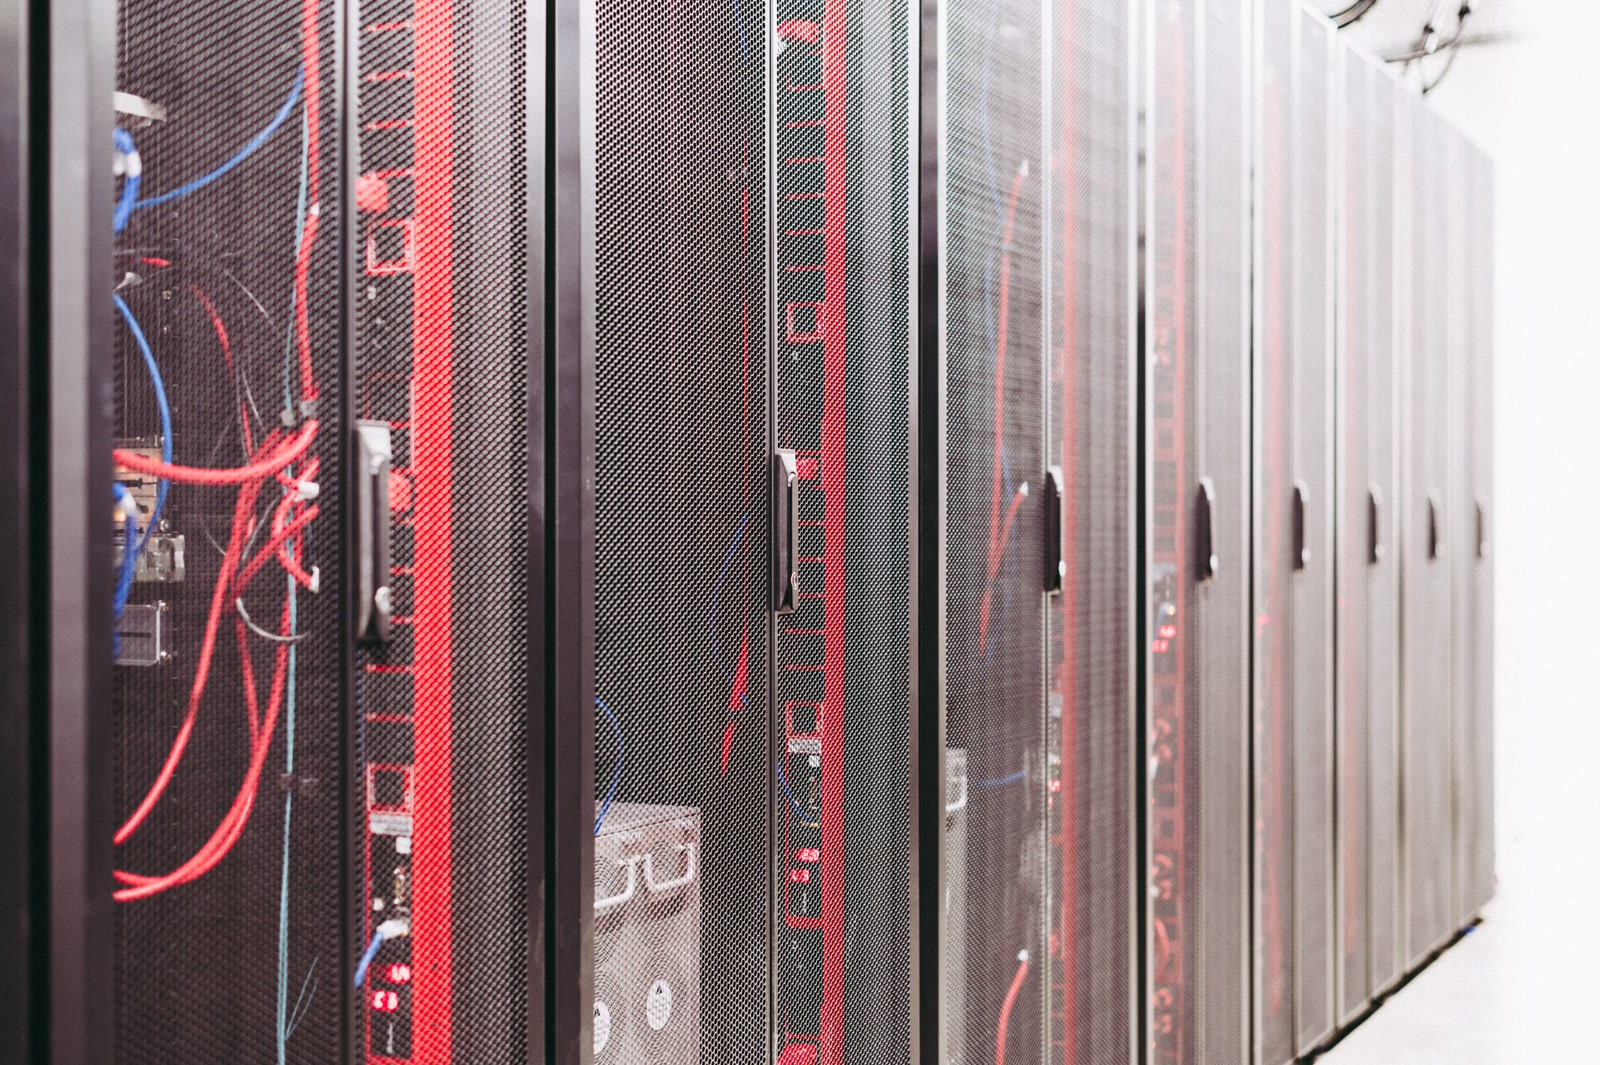
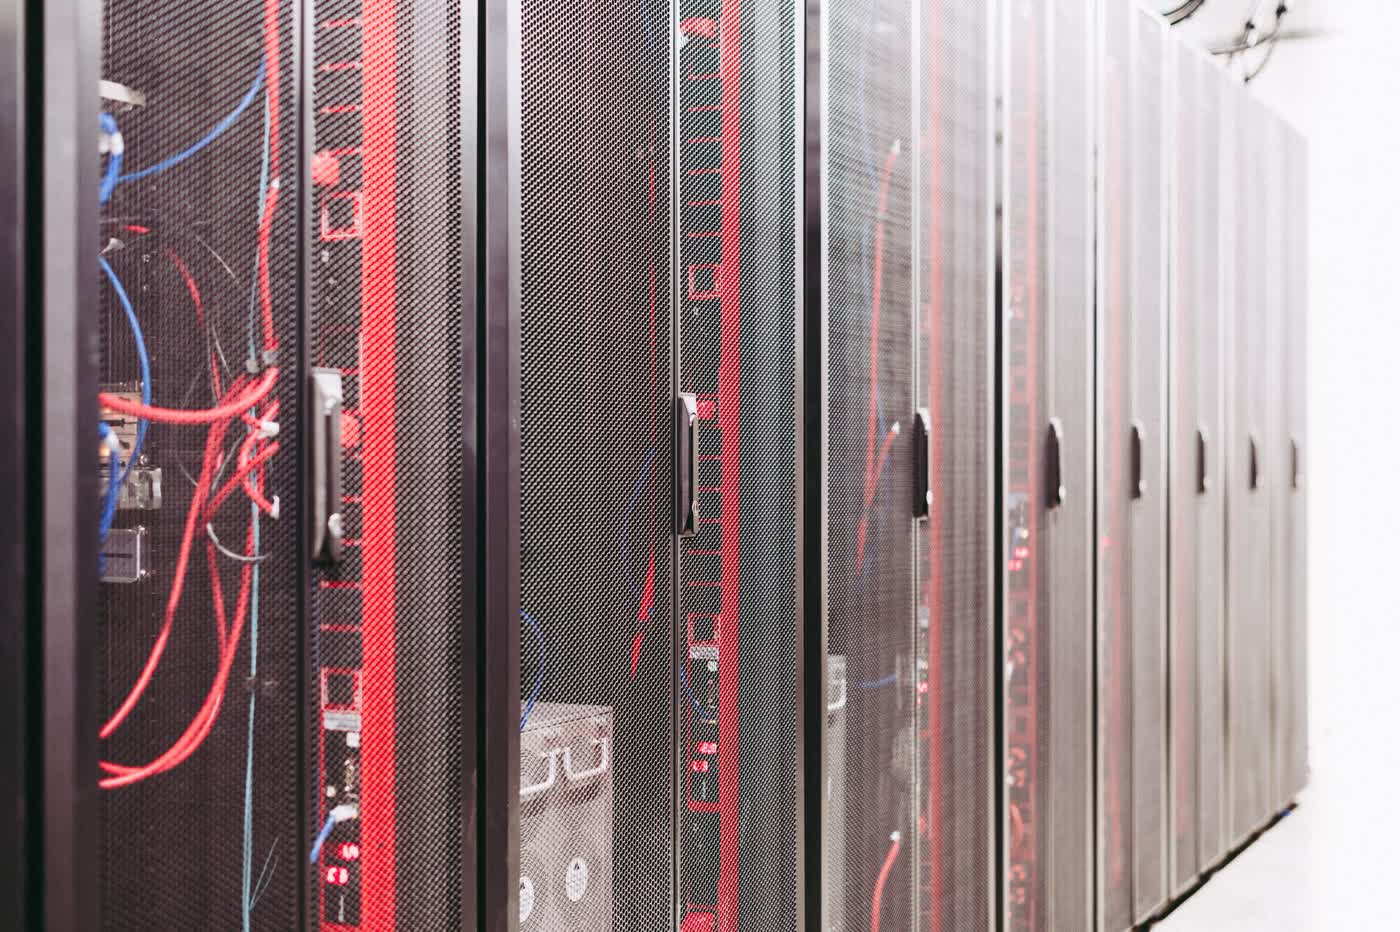
Serve CMS photos via next/image q70; darken products hero glass
Route heroes and card photos through EnterpriseMediaImage (AVIF/WebP
quality 70, sizes, hero-only priority). Recompress public/images sources,
enable formats/qualities/deviceSizes in next.config, and darken
PremiumPageHero highlight glass so grey-300 copy meets WCAG AA over
bright laptop heroes.

Changed region(s): [[0.3686, 0.0, 0.5529, 1.0]]

diff --git a/components/HomeV3Sections.tsx b/components/HomeV3Sections.tsx
@@ -1,6 +1,13 @@
 import Link from "next/link";
 import { CTABand } from "@/components/CTABand";
-import { EnterprisePhotoPanel, PremiumStatementBand, enterpriseImages } from "@/components/EnterpriseImagery";
+import {
+  EnterpriseMediaImage,
+  EnterprisePhotoPanel,
+  PremiumStatementBand,
+  enterpriseCardSizes,
+  enterpriseImages,
+  enterpriseThumbSizes,
+} from "@/components/EnterpriseImagery";
 import { SectionHeading } from "@/components/SectionHeading";
 import { AnimatedCard, AnimatedSection, StaggerContainer } from "@/components/motion";
 import { categories } from "@/data/products";
@@ -103,15 +110,21 @@ export function SolutionsV3() {
           {solutions.slice(0, 6).map((solution, index) => (
             <Link key={solution.slug} href={`/solutions/${solution.slug}`} className={`group block ${index > 2 ? "hidden md:block" : ""}`}>
               <AnimatedCard className="surface lift h-full overflow-hidden rounded">
-                <div
-                  className="relative h-28 border-b border-slate-200 bg-slate-950 p-4 sm:h-40 sm:p-5"
-                  style={{
-                    backgroundImage: `linear-gradient(180deg, rgba(7, 20, 38, 0.04), rgba(7, 20, 38, 0.76)), url(${enterpriseImages[solutionImages[solution.slug] || "network"]})`,
-                    backgroundPosition: "center",
-                    backgroundSize: "cover",
-                  }}
-                >
-                  <div className="grid h-12 w-12 place-items-center rounded bg-white/90 text-xs font-bold text-[#0A0A0A] shadow-lg shadow-slate-950/20">{solution.icon}</div>
+                <div className="relative h-28 overflow-hidden border-b border-slate-200 bg-slate-950 p-4 sm:h-40 sm:p-5">
+                  <EnterpriseMediaImage
+                    image={solutionImages[solution.slug] || "network"}
+                    sizes={enterpriseCardSizes}
+                  />
+                  <div
+                    className="absolute inset-0"
+                    style={{
+                      backgroundImage:
+                        "linear-gradient(180deg, rgba(7, 20, 38, 0.04), rgba(7, 20, 38, 0.76))",
+                    }}
+                  />
+                  <div className="relative grid h-12 w-12 place-items-center rounded bg-white/90 text-xs font-bold text-[#0A0A0A] shadow-lg shadow-slate-950/20">
+                    {solution.icon}
+                  </div>
                 </div>
                 <div className="p-4 sm:p-6">
                   <div className="text-lg font-bold text-slate-950 group-hover:text-[#2563EB] sm:text-xl">{solution.title}</div>
@@ -147,14 +160,19 @@ export function ProductCatalogV3() {
             <Link key={category.slug} href={`/products/${category.slug}`} className={`group block ${index > 3 ? "hidden sm:block" : ""}`}>
               <AnimatedCard className="h-full rounded-lg border border-slate-200 bg-slate-50 p-4 shadow-sm transition hover:-translate-y-1 hover:bg-white hover:shadow-xl hover:shadow-slate-950/10">
                 <div className="flex gap-3">
-                  <div
-                    className="h-14 w-16 shrink-0 rounded bg-slate-950"
-                    style={{
-                      backgroundImage: `linear-gradient(180deg, rgba(7, 20, 38, 0.06), rgba(7, 20, 38, 0.7)), url(${enterpriseImages[categoryImages[category.slug] || "dataCenter"]})`,
-                      backgroundPosition: "center",
-                      backgroundSize: "cover",
-                    }}
-                  />
+                  <div className="relative h-14 w-16 shrink-0 overflow-hidden rounded bg-slate-950">
+                    <EnterpriseMediaImage
+                      image={categoryImages[category.slug] || "dataCenter"}
+                      sizes={enterpriseThumbSizes}
+                    />
+                    <div
+                      className="absolute inset-0"
+                      style={{
+                        backgroundImage:
+                          "linear-gradient(180deg, rgba(7, 20, 38, 0.06), rgba(7, 20, 38, 0.7))",
+                      }}
+                    />
+                  </div>
                   <div className="min-w-0">
                     <div className="text-xs font-bold uppercase tracking-[0.14em] text-[#2563EB]">Technology</div>
                     <h3 className="mt-1 text-base font-bold tracking-tight text-slate-950 group-hover:text-[#2563EB]">{category.name}</h3>

diff --git a/components/PremiumPageHero.tsx b/components/PremiumPageHero.tsx
@@ -1,5 +1,9 @@
 import Link from "next/link";
-import { enterpriseImages } from "@/components/EnterpriseImagery";
+import {
+  EnterpriseMediaImage,
+  enterpriseHeroSizes,
+  enterpriseImages,
+} from "@/components/EnterpriseImagery";
 import { FadeIn, SlideUp, StaggerContainer } from "@/components/motion";
 
 type HeroAction = {
@@ -31,14 +35,16 @@ export function PremiumPageHero({
 }) {
   return (
     <section className="relative overflow-hidden bg-[#0A0A0A] text-white">
-      <div
-        className="cinematic-photo absolute inset-0 opacity-[0.82]"
-        style={{
-          backgroundImage: `linear-gradient(105deg, rgba(5, 16, 28, 0.98), rgba(8, 45, 62, 0.74) 50%, rgba(132, 91, 44, 0.2)), url(${enterpriseImages[image]})`,
-          backgroundPosition: "center",
-          backgroundSize: "cover",
-        }}
-      />
+      <div className="cinematic-photo absolute inset-0 opacity-[0.82]">
+        <EnterpriseMediaImage image={image} priority sizes={enterpriseHeroSizes} />
+        <div
+          className="absolute inset-0"
+          style={{
+            backgroundImage:
+              "linear-gradient(105deg, rgba(5, 16, 28, 0.98), rgba(8, 45, 62, 0.74) 50%, rgba(132, 91, 44, 0.2))",
+          }}
+        />
+      </div>
       <div className="cinematic-aurora pointer-events-none absolute inset-0" />
       <div className="cinematic-lines pointer-events-none absolute inset-0 opacity-25" />
       <div className="cinematic-sweep pointer-events-none absolute inset-y-0 left-0 w-[72%] opacity-0" />
@@ -75,13 +81,14 @@ export function PremiumPageHero({
         </div>
 
         <SlideUp delay={220} className="hidden h-full md:block">
-          <div className="relative overflow-hidden rounded-lg border border-white/15 bg-white/[0.08] p-3 shadow-2xl shadow-black/20 backdrop-blur-xl sm:p-4">
-            <div className="absolute inset-0 bg-gradient-to-br from-white/12 via-transparent to-blue-500/10" />
+          {/* Darker glass so grey-300 body copy stays AA over bright hero photos (e.g. products laptop). */}
+          <div className="relative overflow-hidden rounded-lg border border-white/15 bg-[#05101C]/90 p-3 shadow-2xl shadow-black/40 backdrop-blur-xl sm:p-4">
+            <div className="absolute inset-0 bg-gradient-to-br from-white/6 via-[#05101C]/35 to-black/50" />
             <StaggerContainer className="relative grid gap-2 sm:grid-cols-2 sm:gap-3">
               {highlights.map((item, index) => (
                 <div
                   key={item.label}
-                  className={`rounded-lg border border-white/12 bg-white/10 p-3 backdrop-blur transition-transform duration-200 hover:-translate-y-1 ${index > 1 ? "hidden sm:block" : ""}`}
+                  className={`rounded-lg border border-white/12 bg-black/65 p-3 backdrop-blur-md transition-transform duration-200 hover:-translate-y-1 ${index > 1 ? "hidden sm:block" : ""}`}
                 >
                   <div className="text-xs font-bold text-blue-200">{String(index + 1).padStart(2, "0")}</div>
                   <div className="mt-2 text-sm font-bold text-white">{item.label}</div>

diff --git a/components/EnterpriseImagery.tsx b/components/EnterpriseImagery.tsx
@@ -1,7 +1,48 @@
+import Image from "next/image";
 import Link from "next/link";
-import { getCmsMediaSourceMap } from "@/lib/cms/media";
+import { getCmsMediaRecord, getCmsMediaSourceMap, type CmsMediaKey } from "@/lib/cms/media";
 
 export const enterpriseImages = getCmsMediaSourceMap();
+
+export const enterpriseMediaQuality = 70;
+
+/** Full-bleed page heroes (only these should pass priority). Cap desktop src near source width. */
+export const enterpriseHeroSizes = "(max-width: 768px) 100vw, 1600px";
+
+/** Large photo panels beside copy (~half viewport on desktop). */
+export const enterprisePanelSizes = "(max-width: 1024px) 100vw, 50vw";
+
+/** Card / tile photo bands in grids. */
+export const enterpriseCardSizes = "(max-width: 768px) 100vw, (max-width: 1024px) 50vw, 33vw";
+
+/** Small thumbnails beside list copy. */
+export const enterpriseThumbSizes = "(max-width: 640px) 80px, 96px";
+
+export function EnterpriseMediaImage({
+  image,
+  priority = false,
+  sizes,
+  className = "",
+}: {
+  image: CmsMediaKey | keyof typeof enterpriseImages;
+  priority?: boolean;
+  sizes: string;
+  className?: string;
+}) {
+  const record = getCmsMediaRecord(image as CmsMediaKey);
+
+  return (
+    <Image
+      src={record.source}
+      alt={record.alt}
+      fill
+      priority={priority}
+      quality={enterpriseMediaQuality}
+      sizes={sizes}
+      className={`object-cover ${className}`}
+    />
+  );
+}
 
 export function EnterprisePhotoPanel({
   image,
@@ -20,14 +61,15 @@ export function EnterprisePhotoPanel({
     <div
       className={`relative min-h-[220px] overflow-hidden rounded-lg bg-slate-950 shadow-2xl shadow-slate-950/18 sm:min-h-[270px] ${className}`}
     >
-      <div
-        className="cinematic-photo absolute inset-0"
-      style={{
-        backgroundImage: `linear-gradient(180deg, rgba(7, 20, 38, 0.08), rgba(7, 20, 38, 0.74)), url(${enterpriseImages[image]})`,
-        backgroundPosition: "center",
-        backgroundSize: "cover",
-      }}
-      />
+      <div className="cinematic-photo absolute inset-0">
+        <EnterpriseMediaImage image={image} sizes={enterprisePanelSizes} />
+        <div
+          className="absolute inset-0"
+          style={{
+            backgroundImage: "linear-gradient(180deg, rgba(7, 20, 38, 0.08), rgba(7, 20, 38, 0.74))",
+          }}
+        />
+      </div>
       <div className="absolute inset-0 bg-[linear-gradient(90deg,rgba(7,20,38,0.72),transparent_54%)]" />
       <div className="cinematic-lines pointer-events-none absolute inset-0 opacity-25" />
       <div className="relative flex min-h-[220px] flex-col justify-end p-4 text-white sm:min-h-[270px] sm:p-5">

diff --git a/app/products/page.tsx b/app/products/page.tsx
@@ -1,7 +1,11 @@
 import Link from "next/link";
 import type { Metadata } from "next";
 import { AnimatedContent, BorderGlow, SpotlightCard } from "@/app/components/reactbits";
-import { enterpriseImages } from "@/components/EnterpriseImagery";
+import {
+  EnterpriseMediaImage,
+  enterpriseCardSizes,
+  enterpriseImages,
+} from "@/components/EnterpriseImagery";
 import { PremiumPageHero } from "@/components/PremiumPageHero";
 import { ProductGrid } from "@/components/ProductGrid";
 import { RequirementBuilder } from "@/components/RequirementBuilder";
@@ -100,14 +104,18 @@ export default async function ProductsPage() {
               <AnimatedContent key={category.slug} delay={Math.min(index * 45, 320)}>
                 <Link href={`/products/${category.slug}`} className="group block h-full">
                   <SpotlightCard className="h-full overflow-hidden rounded-lg border border-slate-200 bg-white shadow-sm transition group-hover:-translate-y-1 group-hover:shadow-xl group-hover:shadow-slate-950/10">
-                    <div
-                      className="relative min-h-[118px] sm:min-h-[190px]"
-                      style={{
-                        backgroundImage: `linear-gradient(180deg, rgba(7, 20, 38, 0.03), rgba(7, 20, 38, 0.78)), url(${enterpriseImages[categoryImages[category.slug] || "dataCenter"]})`,
-                        backgroundPosition: "center",
-                        backgroundSize: "cover",
-                      }}
-                    >
+                    <div className="relative min-h-[118px] overflow-hidden sm:min-h-[190px]">
+                      <EnterpriseMediaImage
+                        image={categoryImages[category.slug] || "dataCenter"}
+                        sizes={enterpriseCardSizes}
+                      />
+                      <div
+                        className="absolute inset-0"
+                        style={{
+                          backgroundImage:
+                            "linear-gradient(180deg, rgba(7, 20, 38, 0.03), rgba(7, 20, 38, 0.78))",
+                        }}
+                      />
                       <div className="absolute bottom-4 left-4 rounded border border-white/16 bg-white/12 px-3 py-2 text-xs font-bold uppercase tracking-[0.14em] text-white backdrop-blur">
                         Supported Area
                       </div>

diff --git a/app/solutions/page.tsx b/app/solutions/page.tsx
@@ -5,7 +5,11 @@ import {
   GradientBackground,
   SpotlightCard,
 } from "@/app/components/reactbits";
-import { enterpriseImages } from "@/components/EnterpriseImagery";
+import {
+  EnterpriseMediaImage,
+  enterpriseImages,
+  enterpriseThumbSizes,
+} from "@/components/EnterpriseImagery";
 import { PremiumPageHero } from "@/components/PremiumPageHero";
 import { solutions } from "@/data/solutions";
 import { getSolutionsContent } from "@/lib/cms/content";
@@ -81,14 +85,19 @@ export default function SolutionsPage() {
                 <Link href={`/solutions/${solution.slug}`} className="group block h-full">
                   <SpotlightCard className="h-full rounded-lg border border-slate-200 bg-white p-4 shadow-sm transition group-hover:-translate-y-1 group-hover:shadow-xl group-hover:shadow-slate-950/10">
                     <div className="flex gap-3">
-                      <div
-                        className="h-16 w-20 shrink-0 rounded bg-slate-950"
-                        style={{
-                          backgroundImage: `linear-gradient(180deg, rgba(7, 20, 38, 0.04), rgba(7, 20, 38, 0.72)), url(${enterpriseImages[solutionImages[solution.slug] || "network"]})`,
-                          backgroundPosition: "center",
-                          backgroundSize: "cover",
-                        }}
-                      />
+                      <div className="relative h-16 w-20 shrink-0 overflow-hidden rounded bg-slate-950">
+                        <EnterpriseMediaImage
+                          image={solutionImages[solution.slug] || "network"}
+                          sizes={enterpriseThumbSizes}
+                        />
+                        <div
+                          className="absolute inset-0"
+                          style={{
+                            backgroundImage:
+                              "linear-gradient(180deg, rgba(7, 20, 38, 0.04), rgba(7, 20, 38, 0.72))",
+                          }}
+                        />
+                      </div>
                       <div className="min-w-0">
                         <div className="text-xs font-bold uppercase tracking-[0.14em] text-[#2563EB]">{solution.category}</div>
                         <h3 className="mt-1 text-base font-bold text-slate-950 group-hover:text-[#2563EB]">

diff --git a/app/technology/page.tsx b/app/technology/page.tsx
@@ -1,6 +1,10 @@
 import type { Metadata } from "next";
 import Link from "next/link";
-import { enterpriseImages } from "@/components/EnterpriseImagery";
+import {
+  EnterpriseMediaImage,
+  enterpriseCardSizes,
+  enterpriseImages,
+} from "@/components/EnterpriseImagery";
 import { AnimatedCard, AnimatedSection, StaggerContainer } from "@/components/motion";
 import { PremiumPageHero } from "@/components/PremiumPageHero";
 import { SectionHeading } from "@/components/SectionHeading";
@@ -65,14 +69,19 @@ export default function TechnologyPage() {
           <StaggerContainer className="mt-12 grid gap-5 md:grid-cols-2 lg:grid-cols-3">
             {priorityTechnologyDomains.map(([title, text, categorySlug]) => (
               <AnimatedCard key={title} className="h-full overflow-hidden rounded-lg border border-slate-200 bg-white shadow-sm transition hover:-translate-y-1 hover:shadow-xl hover:shadow-slate-950/10">
-                <div
-                  className="h-36 bg-slate-950"
-                  style={{
-                    backgroundImage: `linear-gradient(180deg, rgba(7, 20, 38, 0.04), rgba(7, 20, 38, 0.72)), url(${enterpriseImages[technologyImages[String(title)] || "dataCenter"]})`,
-                    backgroundPosition: "center",
-                    backgroundSize: "cover",
-                  }}
-                />
+                <div className="relative h-36 overflow-hidden bg-slate-950">
+                  <EnterpriseMediaImage
+                    image={technologyImages[String(title)] || "dataCenter"}
+                    sizes={enterpriseCardSizes}
+                  />
+                  <div
+                    className="absolute inset-0"
+                    style={{
+                      backgroundImage:
+                        "linear-gradient(180deg, rgba(7, 20, 38, 0.04), rgba(7, 20, 38, 0.72))",
+                    }}
+                  />
+                </div>
                 <div className="p-7">
                 <div className="text-xs font-bold uppercase tracking-[0.16em] text-[#2563EB]">Technology Domain</div>
                 <h2 className="mt-5 text-2xl font-bold tracking-tight text-slate-950">{title}</h2>

diff --git a/components/Hero.tsx b/components/Hero.tsx
@@ -1,5 +1,9 @@
 import Link from "next/link";
-import { enterpriseImages } from "@/components/EnterpriseImagery";
+import {
+  EnterpriseMediaImage,
+  enterpriseHeroSizes,
+  enterpriseImages,
+} from "@/components/EnterpriseImagery";
 import { FadeIn, SlideUp } from "@/components/motion";
 import { getHomepageContent } from "@/lib/cms/content";
 
@@ -8,14 +12,20 @@ export function Hero() {
 
   return (
     <section className="relative overflow-hidden bg-[#0A0A0A] text-white">
-      <div
-        className="cinematic-photo absolute inset-0 opacity-80"
-        style={{
-          backgroundImage: `linear-gradient(105deg, rgba(5, 16, 28, 0.98), rgba(8, 45, 62, 0.76) 48%, rgba(132, 91, 44, 0.22)), url(${enterpriseImages[content.hero.image]})`,
-          backgroundPosition: "center",
-          backgroundSize: "cover",
-        }}
-      />
+      <div className="cinematic-photo absolute inset-0 opacity-80">
+        <EnterpriseMediaImage
+          image={content.hero.image as keyof typeof enterpriseImages}
+          priority
+          sizes={enterpriseHeroSizes}
+        />
+        <div
+          className="absolute inset-0"
+          style={{
+            backgroundImage:
+              "linear-gradient(105deg, rgba(5, 16, 28, 0.98), rgba(8, 45, 62, 0.76) 48%, rgba(132, 91, 44, 0.22))",
+          }}
+        />
+      </div>
       <div className="cinematic-aurora pointer-events-none absolute inset-0" />
       <div className="cinematic-lines pointer-events-none absolute inset-0 opacity-30" />
       <div className="cinematic-sweep pointer-events-none absolute inset-y-0 left-0 w-[74%] opacity-0" />

diff --git a/next.config.ts b/next.config.ts
@@ -13,6 +13,11 @@ const nextConfig: NextConfig = {
     dangerouslyAllowSVG: true,
     contentDispositionType: "attachment",
     contentSecurityPolicy: "default-src 'self'; script-src 'none'; sandbox;",
+    formats: ["image/avif", "image/webp"],
+    // Allow quality={70} used by EnterpriseMediaImage (Next default allowlist is [75] only).
+    qualities: [70, 75],
+    // Include 1600 so hero sizes≈1600px do not jump to 1920.
+    deviceSizes: [640, 750, 828, 1080, 1200, 1600, 1920],
   },
   experimental: {
     cpus: Number(process.env.NEXT_BUILD_CPUS || 2),
